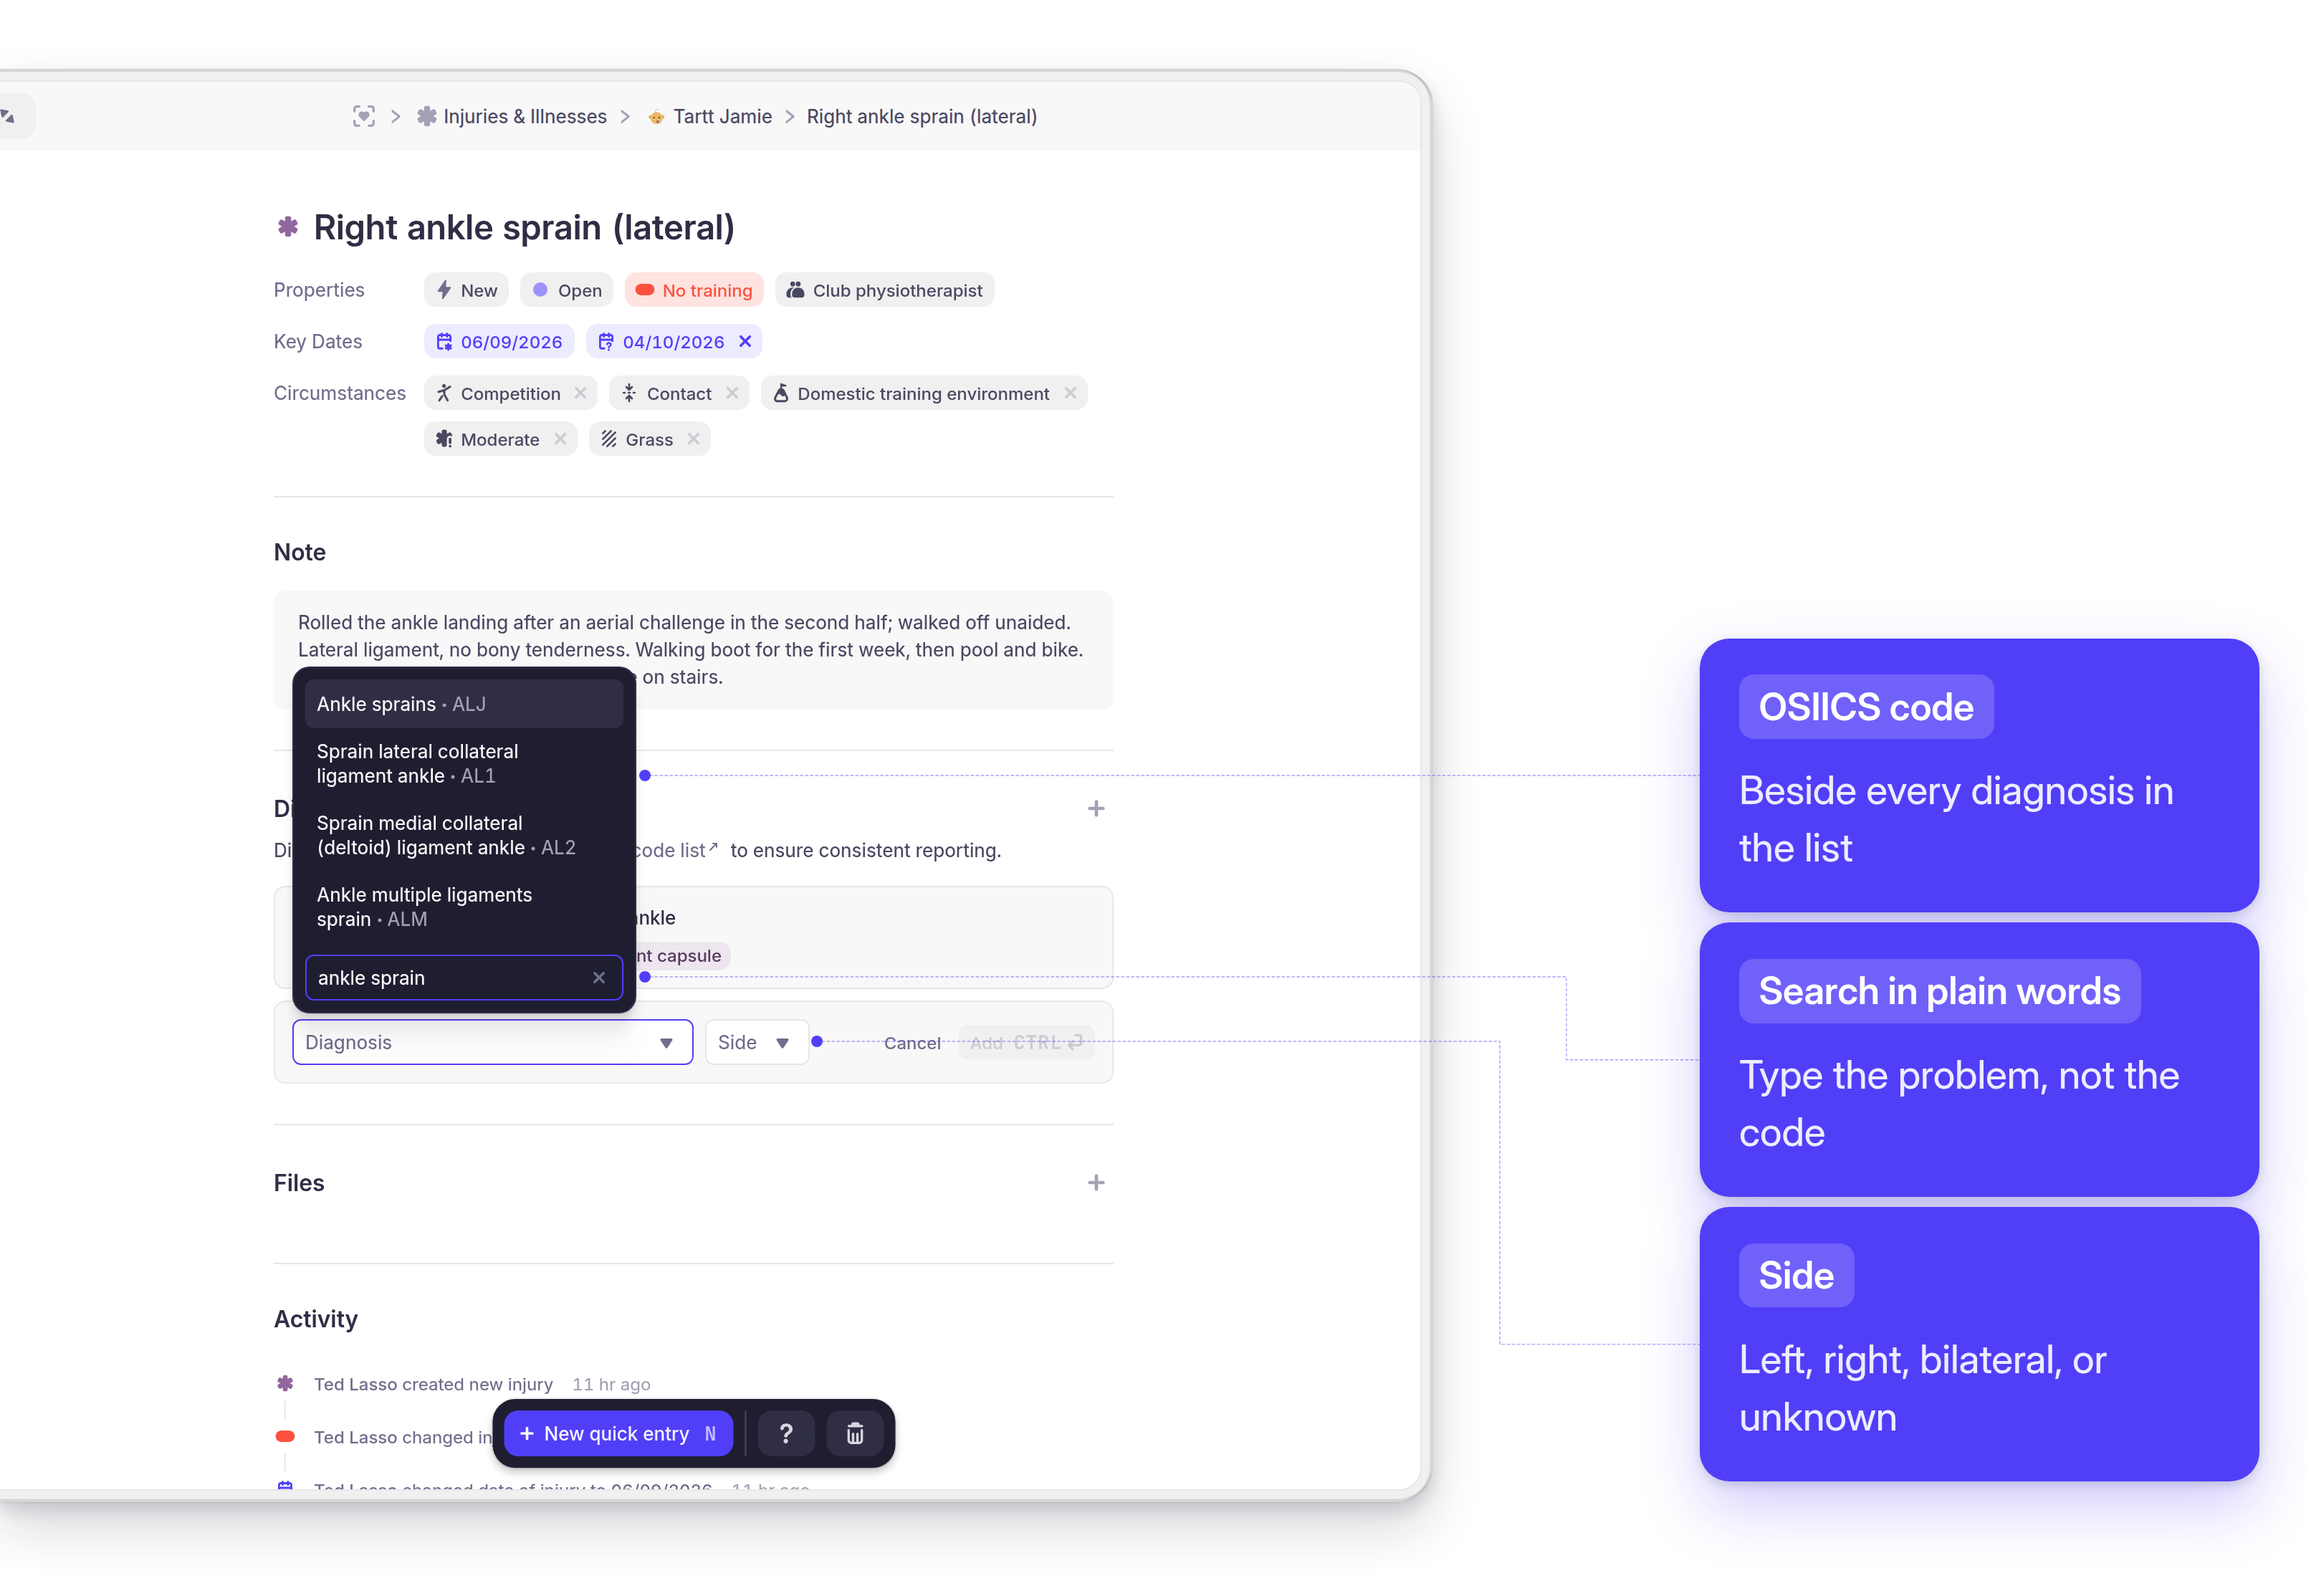
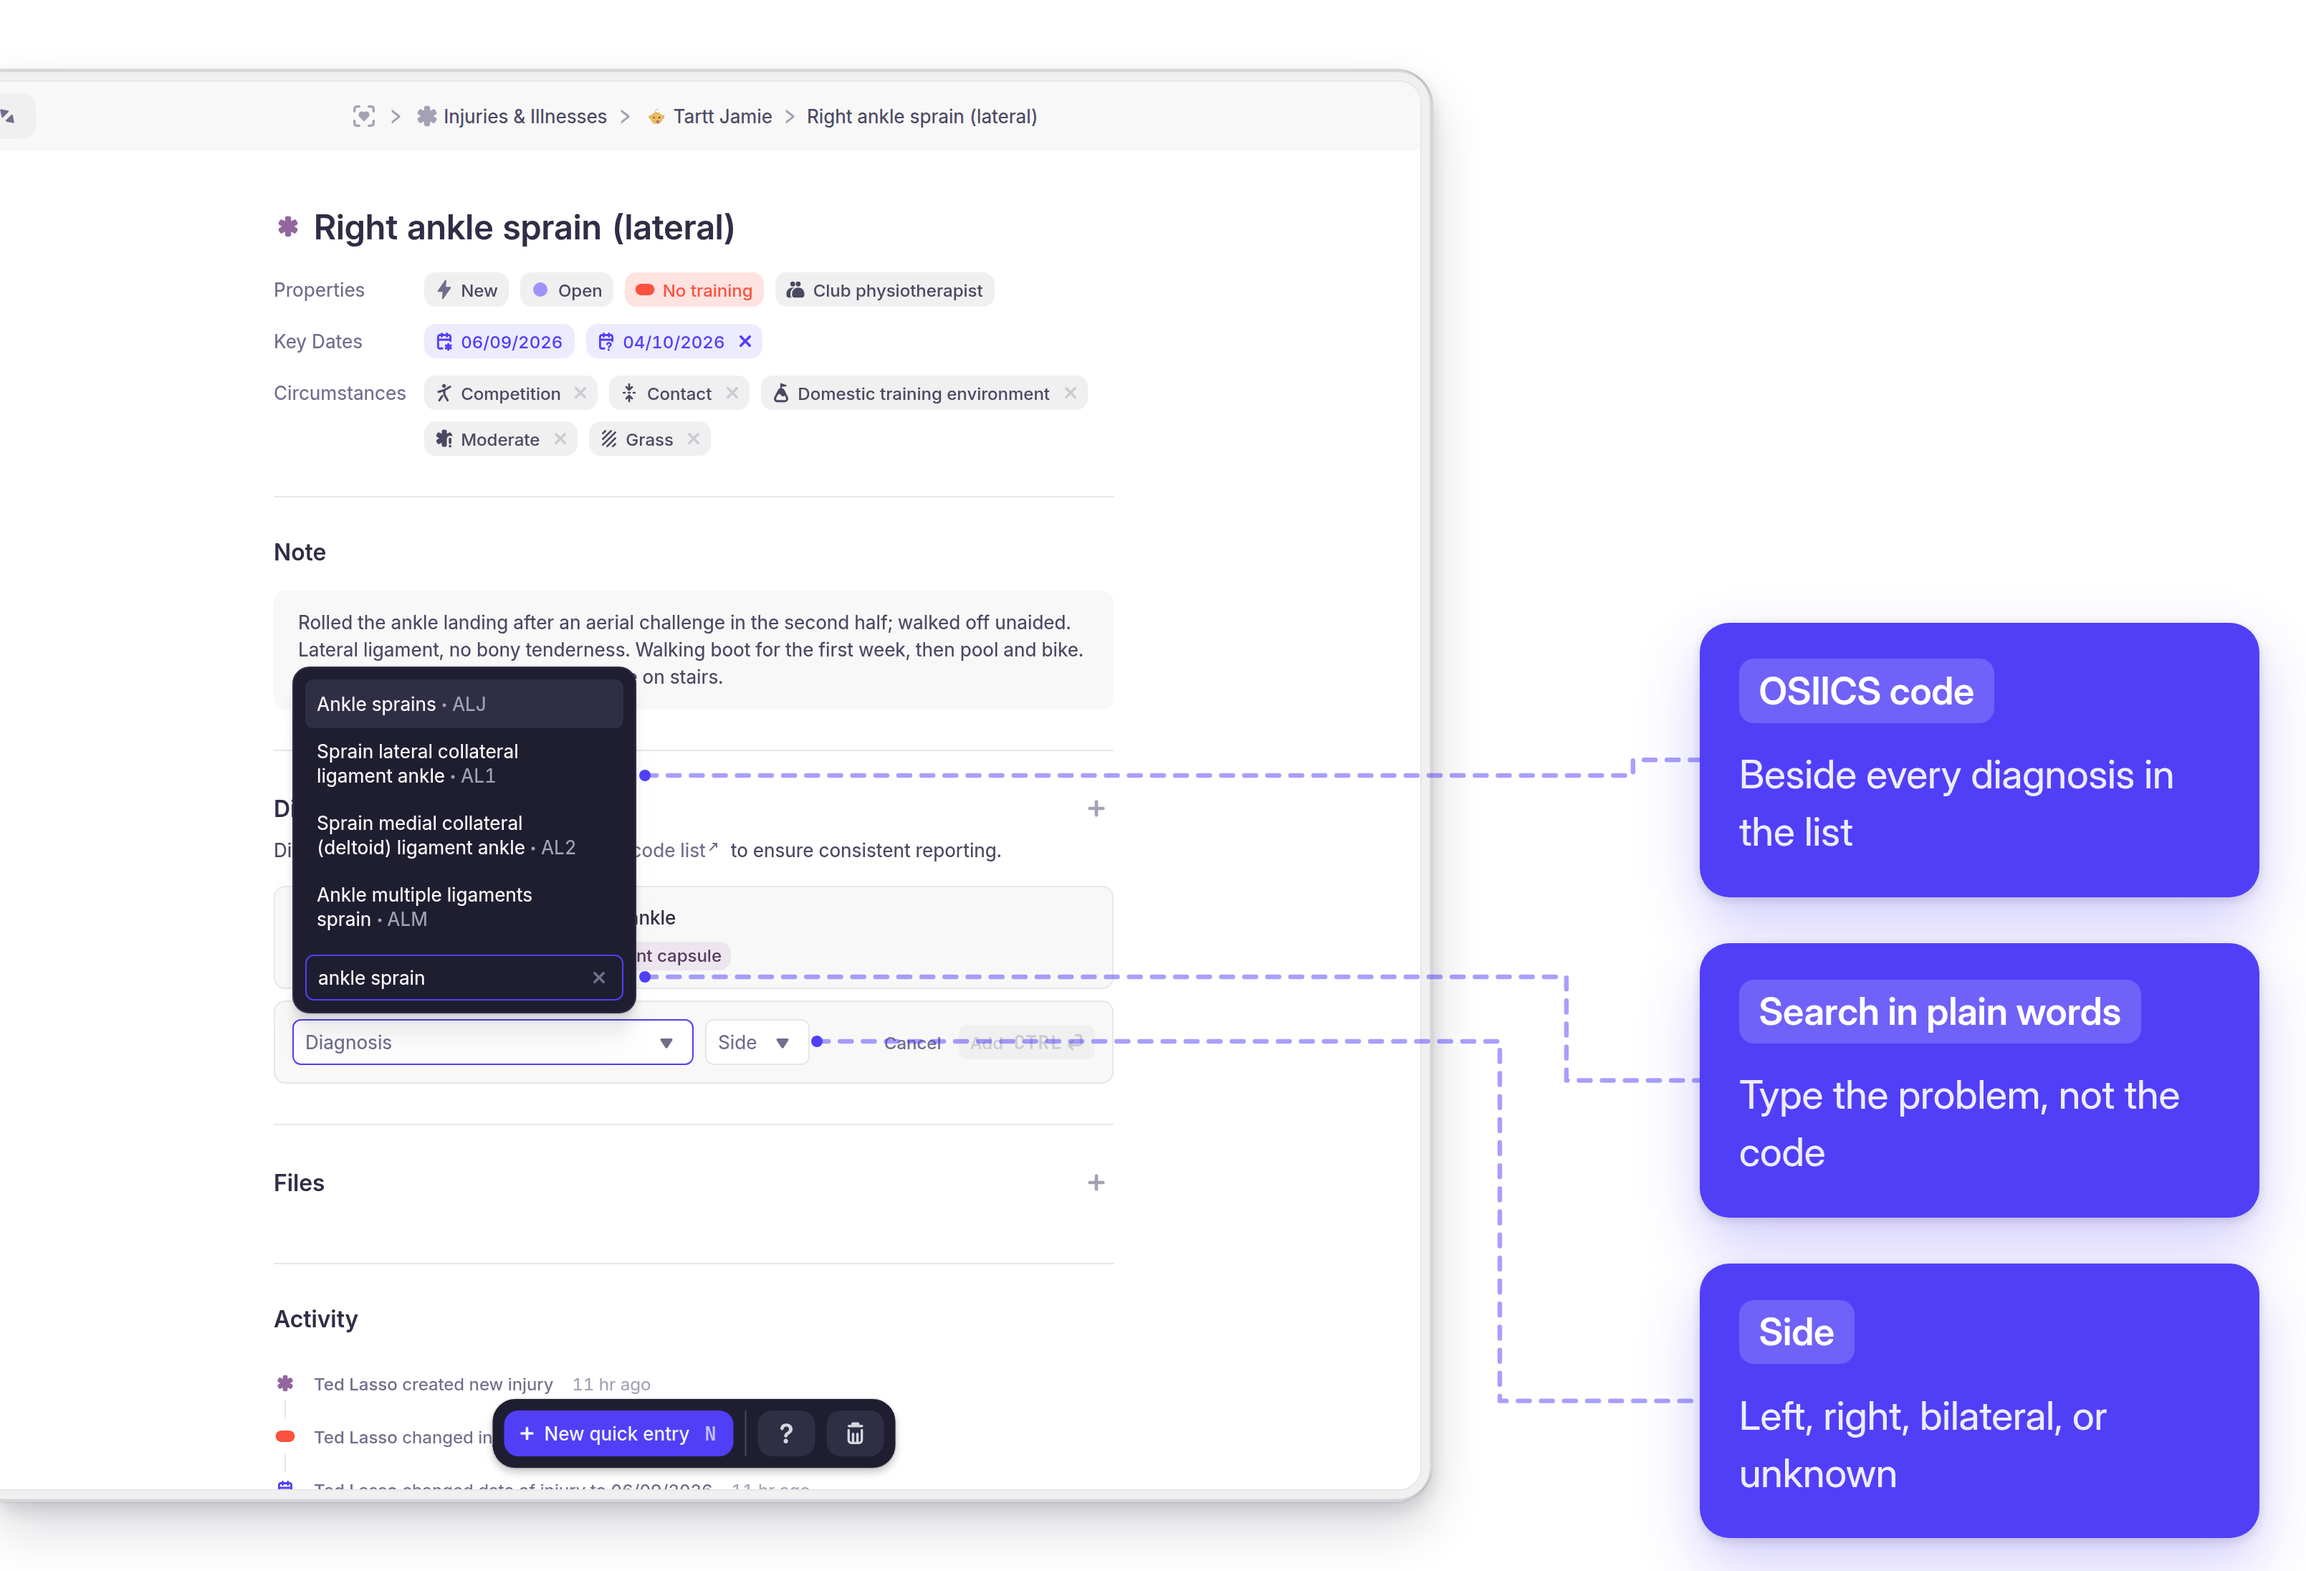
Medical: the app's own field names, the + as the way in, cleaner leaders
Review feedback from the product owner, and one of the three is systematic.

**Field names.** The page invented "training limitation" for a field the app
calls Injury status — better English, and useless to a reader with the screen
open, who cannot find it. It also merged Name and Type into one "Title & type"
entry, collapsed three dates into "Key dates" without naming any of them, and
ordered the list by what felt important rather than by the screen, leaving
Responsible staff next to last when it sits fourth in the Properties row. The
list is now the record's own: Name, Type, Classification, Treatment status,
Injury status, Responsible staff, Date of injury, Expected return to full
training, Closure date, Circumstances, Note, Diagnosis, Files, Activity — with
Properties and Key Dates named as the groups the UI shows.

Because this is the kind of mistake that recurs, the rule is now in the house
guide (§9: use the app's label, never a friendlier synonym; one field per
entry; screen order), on the pre-publish checklist, and in the yarmill-docs
skill. The module notes' own UI-label table was what suggested "Injury Status →
training limitation" in the first place, so it has been inverted and now
carries the record's field order and why the mapping was wrong.

**Creating a record.** The section documented quick entry as though it were the
way in. The primary path is the + above the record list, which opens the full
[…]

Changed region(s): [[0.7147, 0.3723, 0.9944, 1.0]]

diff --git a/docs-guide/writing-instructions.md b/docs-guide/writing-instructions.md
@@ -577,6 +577,29 @@ content lives under `site/content/docs/` and URLs are `/en/…`. Target language
 - **RPE / sRPE** (Borg CR10, 0–10) · **TRIMP** · **ACWR** (acute:chronic workload
   ratio; <0.8 / 0.8–1.3 / >1.3 zones) — expand each abbreviation on first use per page.
 
+**Field names are the app's field names.** When you document a field, a control or a section,
+use the label the product puts on it, spelled and capitalised as the UI spells it — even when
+you can think of a clearer word. A reader has the screen open; a name they can't find on it
+costs them more than an imprecise one. Three rules follow from that, and all three were learnt
+the hard way on the Medical module:
+
+- **Never invent a friendlier synonym.** "Training limitation" for a field the app calls
+  **Injury status** reads better and helps nobody. If the app's label genuinely needs
+  explaining, explain it in the body — don't rename it.
+- **One field, one entry.** Don't merge two fields into a single `<ParamField>` because they
+  sit near each other ("Title & type" for what are really **Name** and **Type**). Two fields
+  the reader sets separately are two entries. The exception is a *named group* the UI itself
+  shows — **Key Dates**, **Properties** — which you may name as a group, but still list its
+  fields separately underneath.
+- **Order the list the way the screen orders it.** A reader works down the form; a docs list
+  in a different order makes them hunt. If **Responsible staff** is the fourth control in the
+  Properties row, it is the fourth entry — not the last one because it felt minor.
+
+Where a label is genuinely confusing, say what it means *next to it*: "**Injury status** — how
+much the athlete can do right now". That keeps the page searchable and still teaches the
+reader something. Verify the labels against the live app or a capture, not against older
+module notes, which may predate a rename.
+
 **Sports terminology — use the English term, not a literal translation of the Czech UI.**
 Yarmill is Czech-built, so several labels get mistranslated; titles and prose must use the
 established English sports-science wording:
@@ -675,6 +698,9 @@ instead of inferring — and **ask for it before drafting** (§0). The loop:
 - [ ] UI referenced by action + destination, not screen position.
 - [ ] Voice: second person, present, active, opinionated where Yarmill is, no hype.
 - [ ] Terminology matches §9 (Copy plan, Import plan, left/right side, Yollanda…).
+- [ ] **Every field is named as the app names it**, no two fields merged into one entry, and
+      the list runs in the order the screen runs in (§9). Checked against the live app or a
+      capture, not against older notes.
 - [ ] Sensitive-data topics phrased as permission-controlled, tone respectful.
 - [ ] File under `site/content/docs/…`; added to `site/.scaffold-ref/docs.json`;
       `npm run build` + `npm run lint` + `npx tsc --noEmit` pass; English, translation-ready.

diff --git a/docs-guide/module-notes/medical-module.md b/docs-guide/module-notes/medical-module.md
@@ -331,12 +331,24 @@ nav is the full classic top-nav with **no group/athlete switcher**; athlete Sett
   permission- and config-dependent; Circumstances deliberately gets no section of its own.
 - **Cross-links:** `/en/analytics/analytics` (Team daily readiness, recovery & training-load
   charts) · `/en/tutorials/read-readiness` · `/en/platform/files`.
-- **UI label → doc term:**
-  | UI label | Doc term |
-  |----------|----------|
-  | Injury Status | training limitation |
-  | Treatment Status | treatment status (Open/Closed) |
+- **UI labels — use them verbatim, do not translate them into nicer words.** An earlier
+  version of this table mapped "Injury Status → training limitation", the page followed it,
+  and the product owner rejected it: there is no such thing as a training limitation in the
+  UI, so a reader cannot find it. The rule is now in `writing-instructions.md` §9.
+  | UI label | Use in the docs |
+  |----------|-----------------|
+  | Injury Status | **Injury status** (explain it as "how much the athlete can do right now") |
+  | Treatment Status | **Treatment status** (Open / Closed) |
+  | Date of injury · Expected return to full training · Closure date | each by its own name; **Key Dates** only as the group heading |
+  | Name · Type | two separate fields, never merged into one entry |
   | Totem panel | (internal only — not surfaced in user docs) |
+- **Field order on the record**, which the docs list must follow: Name · Type ·
+  *Properties* (Classification · Treatment status · Injury status · Responsible staff) ·
+  *Key Dates* (Date of injury · Expected return to full training · Closure date) ·
+  Circumstances · Note · Diagnosis · Files · Activity.
+- **Creating a record:** the **+** above the record list is the primary path — it opens the
+  full record straight away. **New quick entry** is the shortcut, not the main route; the page
+  documents it that way.
 - *Resolved at the 2026-09-21 shoot:* the overview column reads **"Open health problems"**
   and the empty state **"No health problems"** — visible in `images/medical/overview.png`. The
   2025-09-24 changelog's "health issues" is the internal/API word (`data-cy=add-health-issue`),

diff --git a/docs-guide/visuals/demo-cast.md b/docs-guide/visuals/demo-cast.md
@@ -129,6 +129,16 @@ makes them collide. A second pass measures each card, then:
    the routing planar: a lower leader can never reach far enough right to meet a higher one's
    rail, and its run into the card passes below their verticals. Assigning rails the obvious way
    (left-to-right) looks fine with two callouts and crosses with four.
+3. **Give the horizontal runs lanes too.** Two anchors close together otherwise send two
+   dashed lines across the gap a few pixels apart, which reads as one smudged line rather than
+   two leaders. The run steps to its own lane just after the dot, so the dot stays exactly on
+   the element it names.
+
+**Every distance in the compositor is in the CSS pixels the reader will see, times `k`** — the
+card gaps, the edge inset, the leader stroke and its dashes, not just the type. Passing the
+layout pass a scale of 1 instead of `k` is silent: the figure still renders, the cards just
+end up a few rendered pixels apart with hairline leaders between them, which is what "too
+close to each other" looks like.
 
 **Callout cards are Yarmill indigo with light text** (chip in a white tint, body at ~88%
 white), and they **sit off the app, in a transparent strip at the edge** of the figure — to the right

diff --git a/.claude/skills/yarmill-docs/SKILL.md b/.claude/skills/yarmill-docs/SKILL.md
@@ -41,6 +41,10 @@ it before drafting anything non-trivial.
    (or `<TutorialMeta>` / `<UseCaseMeta>`) → hero figure → scannable sections. Use the global
    MDX components in `site/components/mdx/`; reference UI by action + destination, never
    screen position; bold exact in-product labels.
+   **Field lists are the app's field list**: the label the UI uses (never a friendlier
+   synonym), one entry per field (never two merged), in the order the screen shows them —
+   §9 has the rule and what it cost to learn it. Read the labels off the live app or a
+   capture; module notes can predate a rename.
 5. **Wire it in:** save under `site/content/docs/<area>/<slug>.mdx`, then **add the page to
    `site/.scaffold-ref/docs.json`** (anchors → groups → pages) — without this it's
    unreachable. A new *space* also needs a `SECTION_DEFS` entry in `site/lib/nav.ts`.
